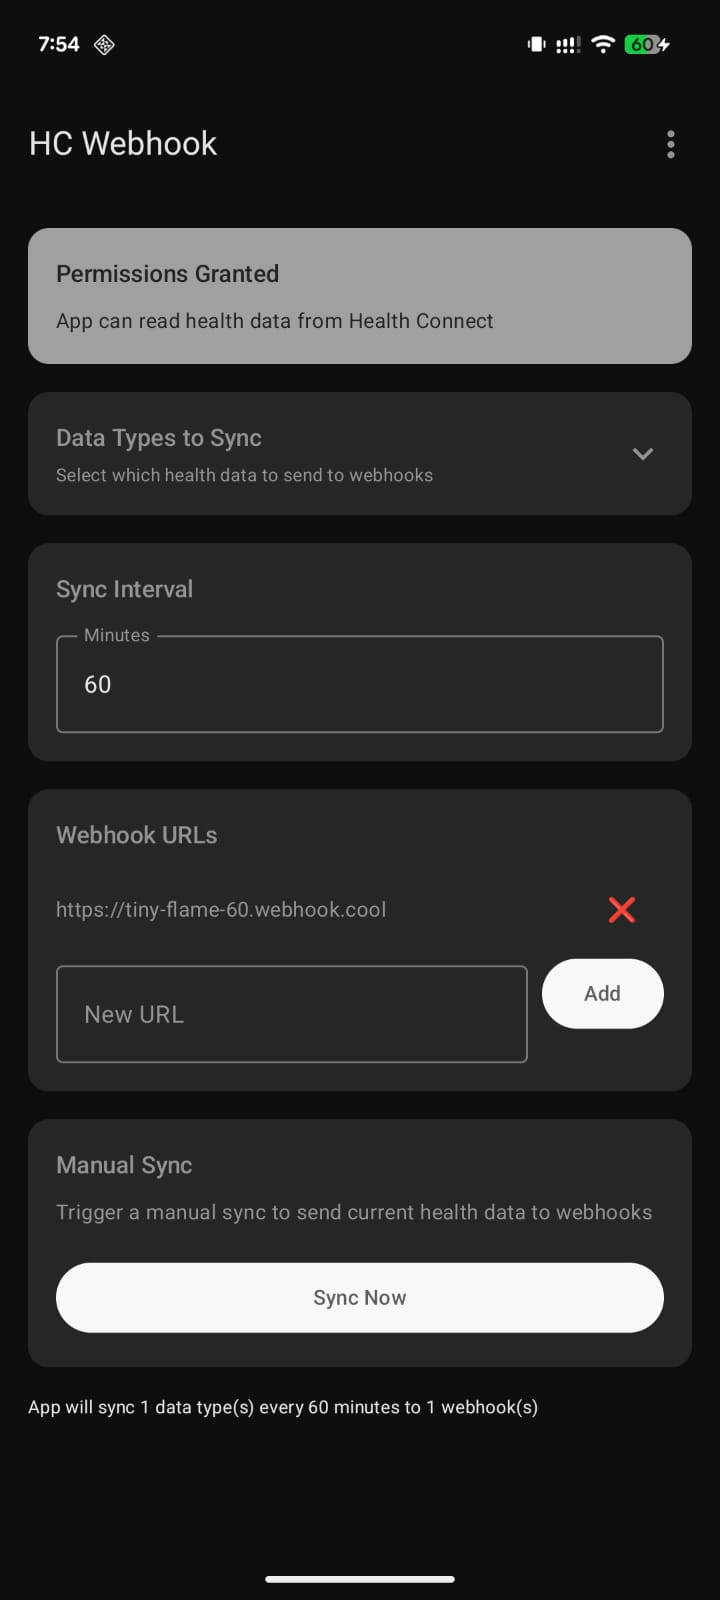
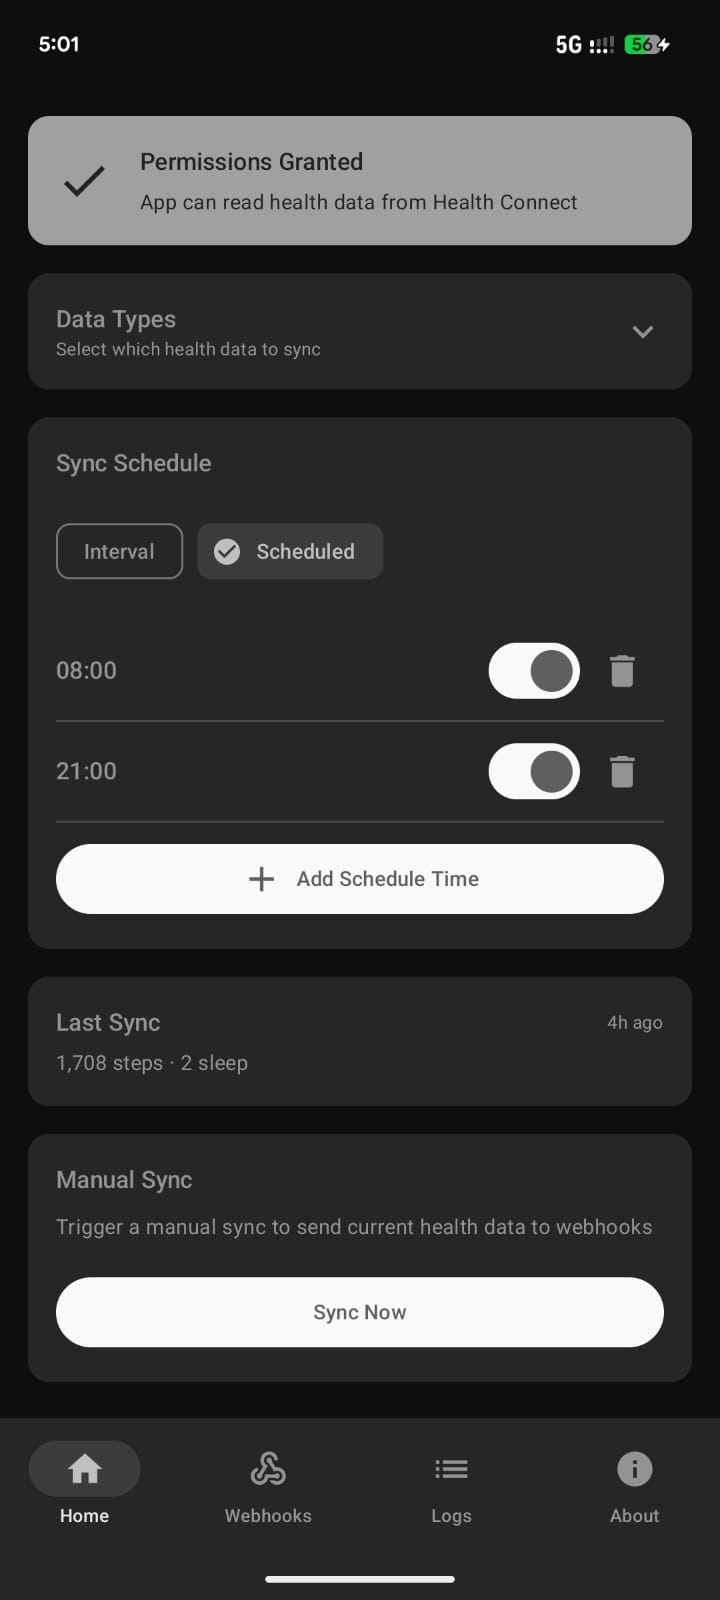
docs: Update README to enhance screenshot presentation and clarify terminology for webhooks

diff --git a/README.md b/README.md
@@ -36,9 +36,9 @@ Health Connect aggregates data from these popular health and fitness apps:
 
 ## Screenshots
 
-|                         Homescreen                         |                         Data Types                         |                         Webhook Logs                         |
-| :--------------------------------------------------------: | :--------------------------------------------------------: | :----------------------------------------------------------: |
-| <img src="screenshots/1.png" width="300" alt="Homescreen"> | <img src="screenshots/2.png" width="300" alt="Data Types"> | <img src="screenshots/3.png" width="300" alt="Webhook Logs"> |
+| Home screen | Data Types | Webhooks URLs | Webhook Logs |
+| :---------: | :--------: | :-----------: | :----------: |
+| <img src="screenshots/1.png" width="240" alt="Home screen"> | <img src="screenshots/2.png" width="240" alt="Data Types"> | <img src="screenshots/3.png" width="240" alt="Webhooks URLs"> | <img src="screenshots/4.png" width="240" alt="Webhook Logs"> |
 
 ## Features
 